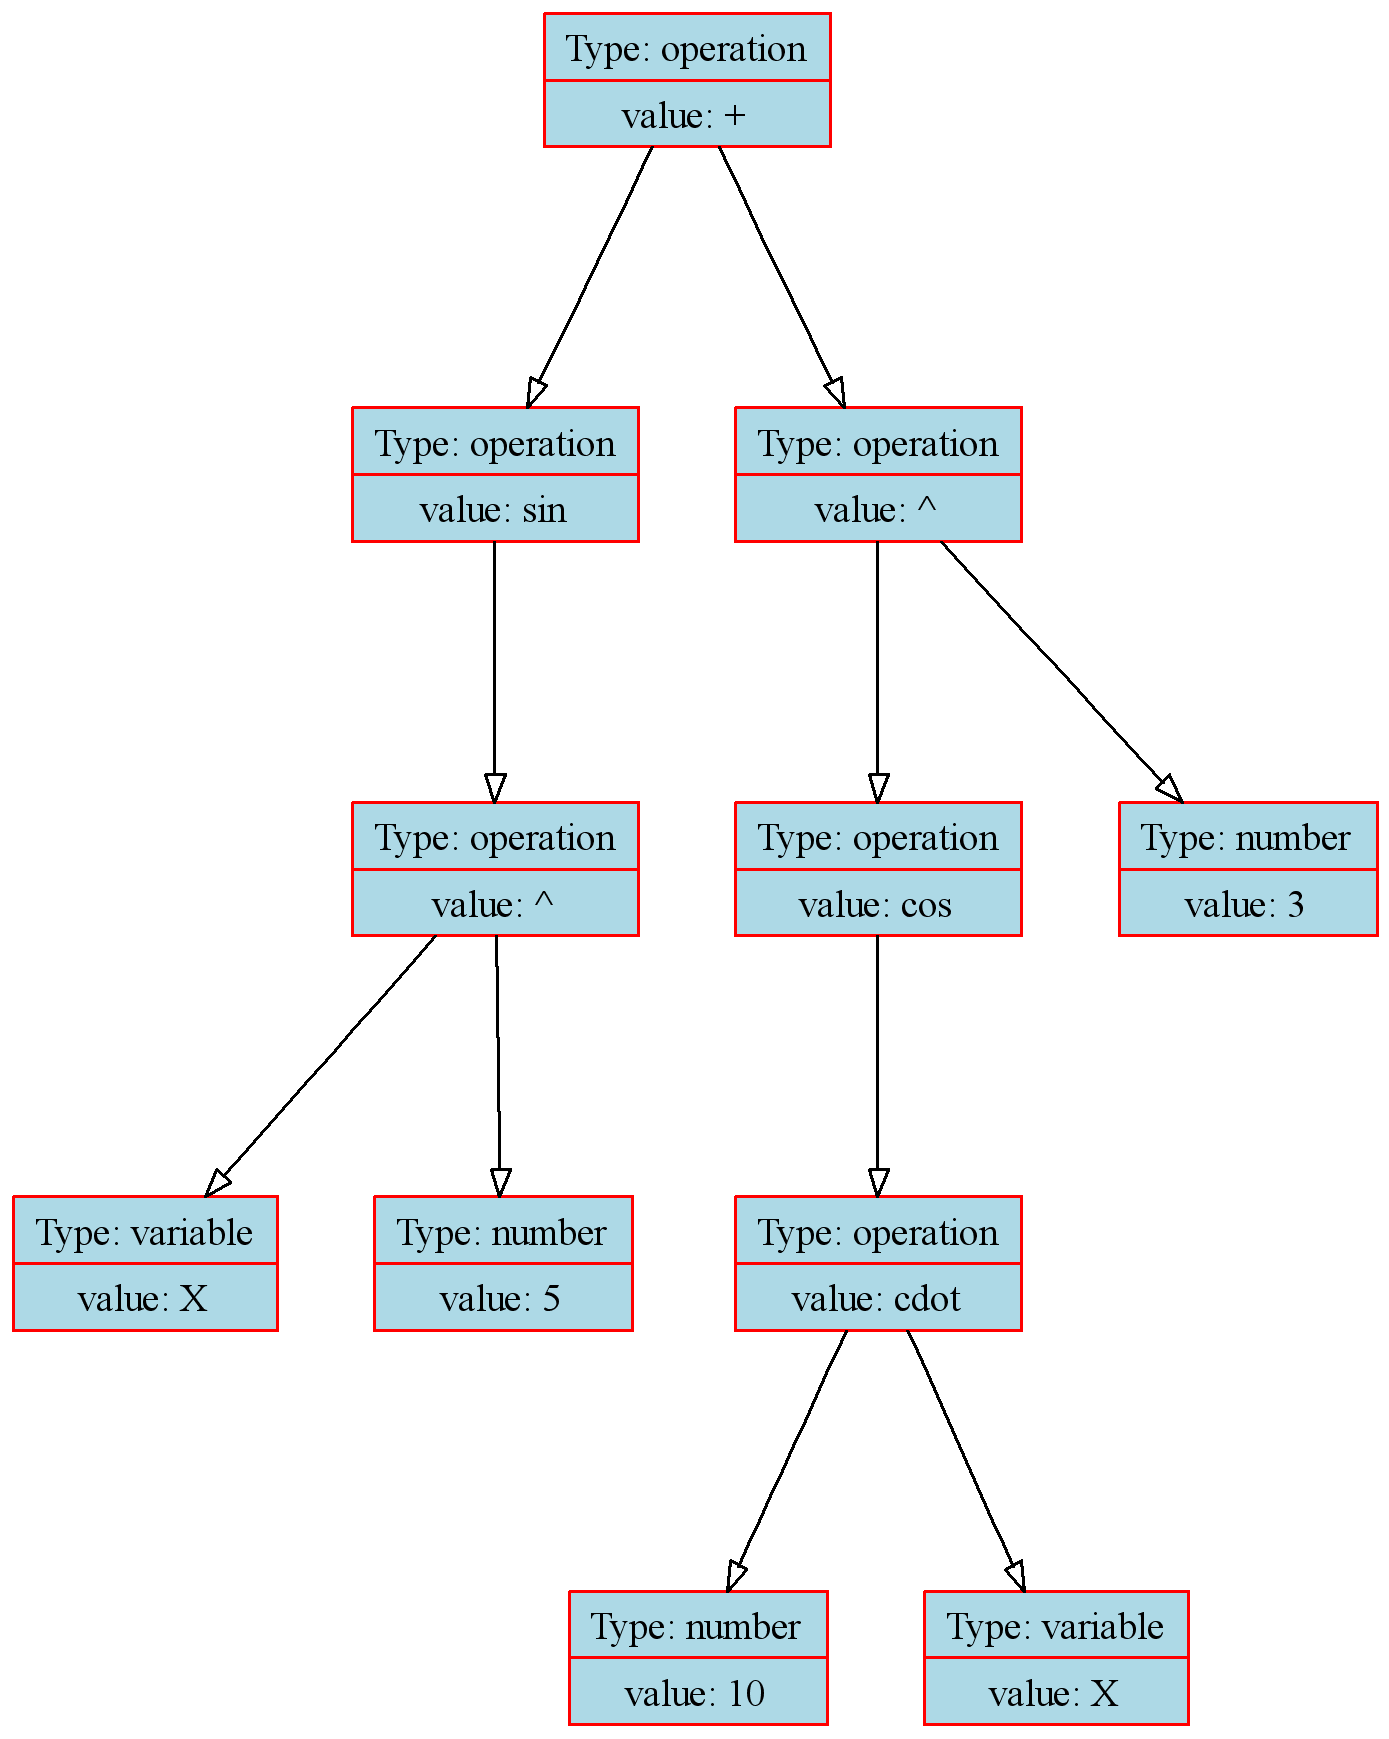
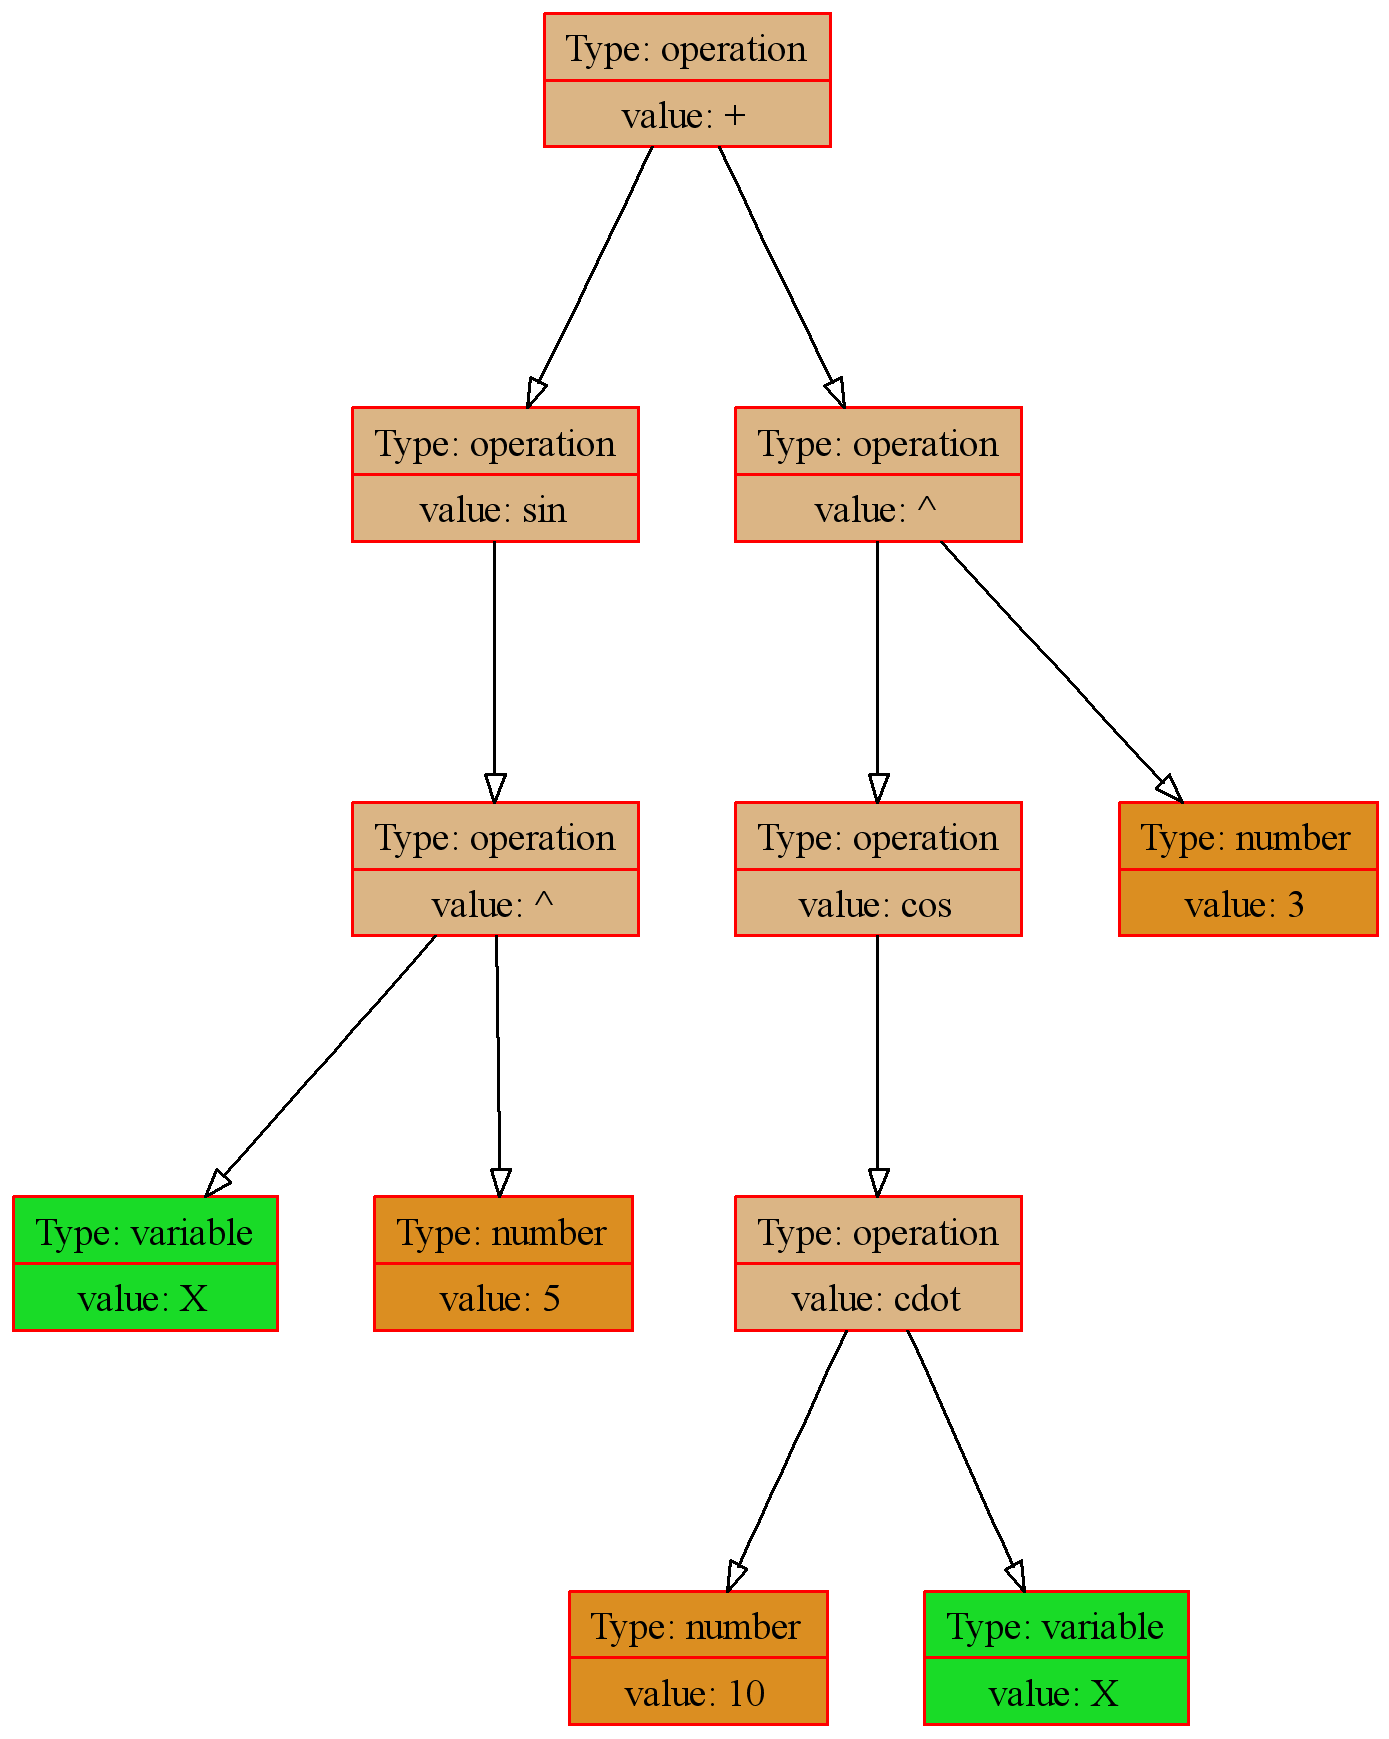
added graph in pdf, changed it colors

diff --git a/src/frontend.cpp b/src/frontend.cpp
@@ -387,23 +387,23 @@ void InitGraphvisNode (TreeNode* node, FILE* dot_file)   // Recursivly initialis
     assert (node != nullptr);
 
     if (node->type == NUM_T)
-        __print ("Node%p[shape=record, width=0.2, style=\"filled\", color=\"red\", fillcolor=\"lightblue\","
+        __print ("Node%p[shape=record, width=0.2, style=\"filled\", color=\"red\", fillcolor=\"#DB8E21\","
                 "label=\" {Type: number | value: %lg}\"] \n \n",
                 node, node->value.dbl_val);
 
     else if (node->type == OP_T)
-        __print ("Node%p[shape=record, width=0.2, style=\"filled\", color=\"red\", fillcolor=\"lightblue\","
+        __print ("Node%p[shape=record, width=0.2, style=\"filled\", color=\"red\", fillcolor=\"#DBB585\","
                 "label=\" {Type: operation | value: %s}\"] \n \n",
                 node, GetOpSign(node->value.op_val));
 
     else if (node->type == VAR_T)
-        __print ("Node%p[shape=record, width=0.2, style=\"filled\", color=\"red\", fillcolor=\"lightblue\","
+        __print ("Node%p[shape=record, width=0.2, style=\"filled\", color=\"red\", fillcolor=\"#19DB27\","
                 "label=\" {Type: variable | value: %s}\"] \n \n",
                 node, node->value);
 
     else
     {
-        __print ("Node%d[shape=record, width=0.2, style=\"filled\", color=\"red\", fillcolor=\"lightblue\","
+        __print ("Node%d[shape=record, width=0.2, style=\"filled\", color=\"red\", fillcolor=\"red\","
                 "label=\" {Op type: %d | value: unknown type}\"] \n \n",
                 node, node->type);
     }
